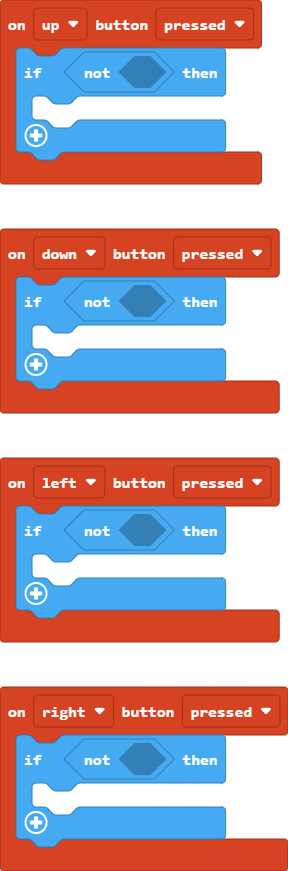
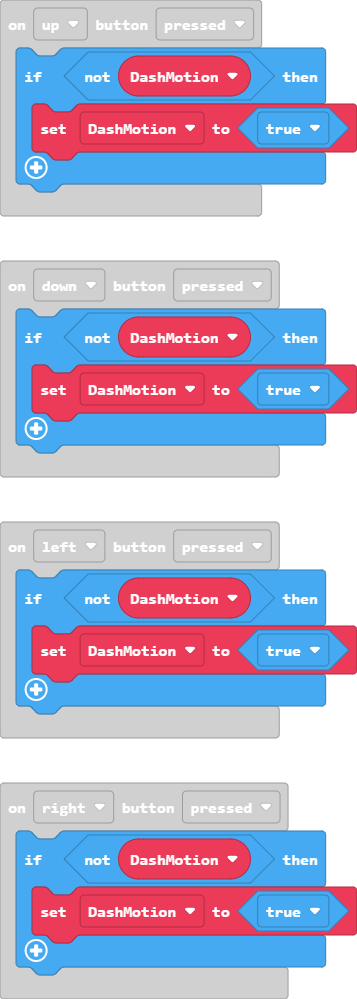
Setting the dash motion true so that it moves

diff --git a/main.ts b/main.ts
@@ -1,23 +1,24 @@
 controller.up.onEvent(ControllerButtonEvent.Pressed, function () {
-    if (!(false)) {
-    	
+    if (!(DashMotion)) {
+        DashMotion = true
     }
 })
 controller.left.onEvent(ControllerButtonEvent.Pressed, function () {
-    if (!(false)) {
-    	
+    if (!(DashMotion)) {
+        DashMotion = true
     }
 })
 controller.right.onEvent(ControllerButtonEvent.Pressed, function () {
-    if (!(false)) {
-    	
+    if (!(DashMotion)) {
+        DashMotion = true
     }
 })
 controller.down.onEvent(ControllerButtonEvent.Pressed, function () {
-    if (!(false)) {
-    	
+    if (!(DashMotion)) {
+        DashMotion = true
     }
 })
+let DashMotion = false
 tiles.setCurrentTilemap(tilemap`level2`)
 let mySprite = sprites.create(img`
     . . . . . . . . . . . . . . . . 
